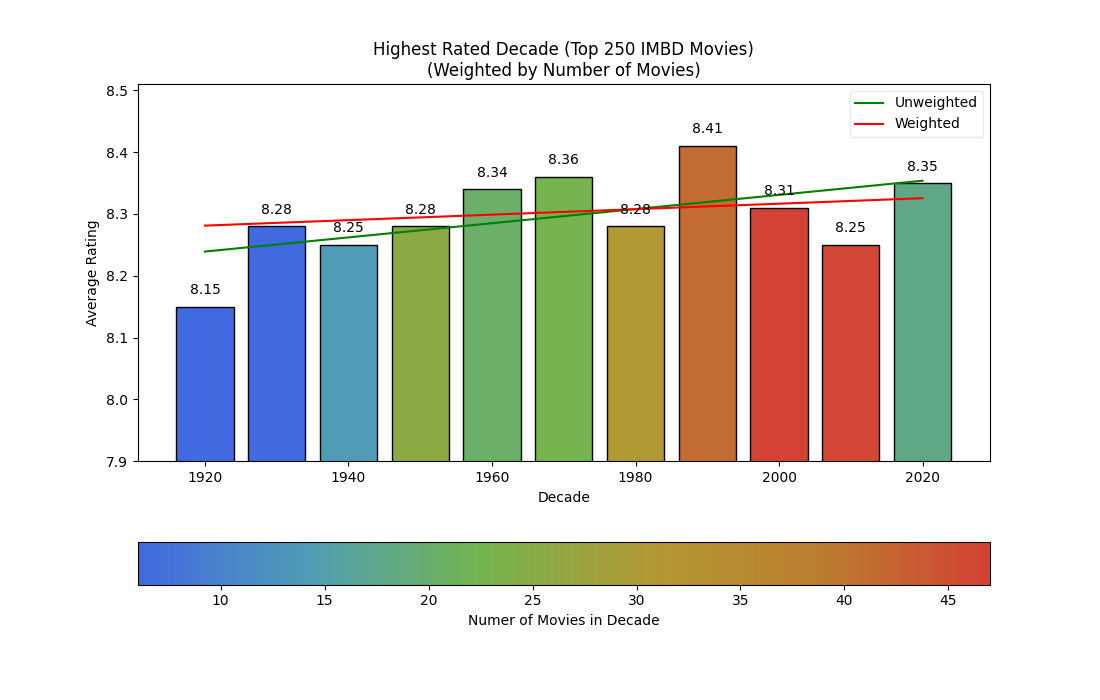
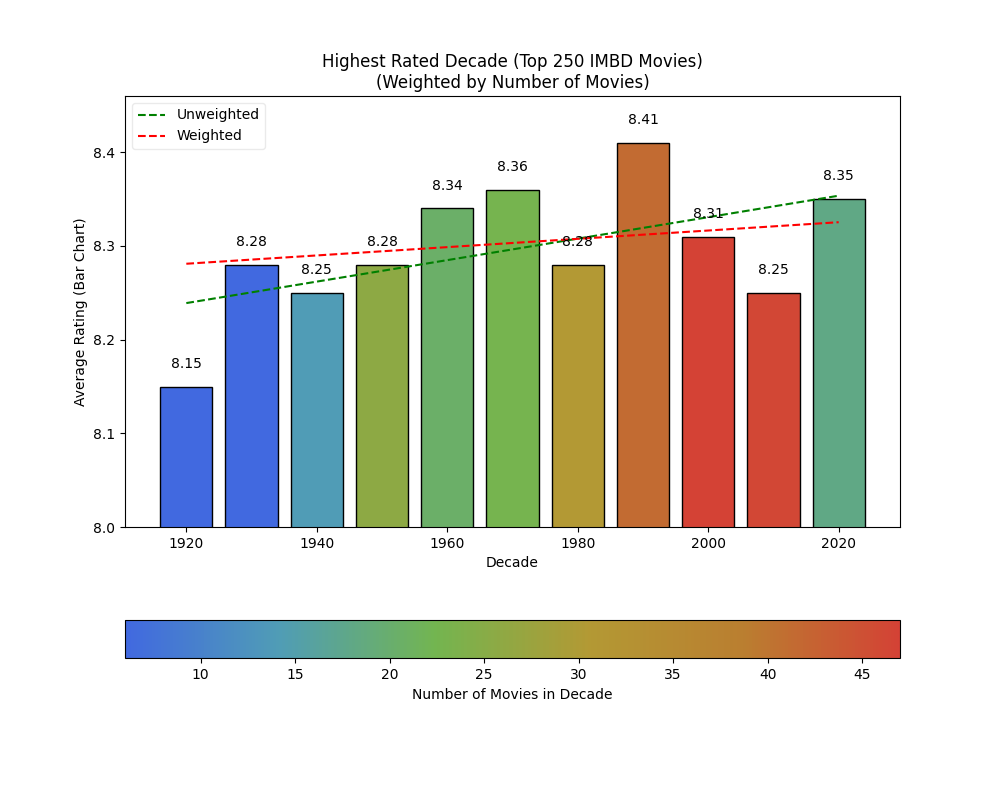
Minor updates to zoom

diff --git a/imdb_top_movies/highest_rated_decades_weighted.py b/imdb_top_movies/highest_rated_decades_weighted.py
@@ -7,28 +7,26 @@ from matplotlib.colors import LinearSegmentedColormap
 import pandas as pd
 import numpy as np
 
-plt.figure(figsize=(11,7))
+plt.figure(figsize=(10,8))
 
 #pd.set_option('display.max_rows',None)         # commented out, pandas does not display full table by default must set option
 #pd.set_option('display.max_columns',None)
 
 imdb_table = pd.read_csv('./imdb_top_movies.csv', index_col = 0)             # DataFrame created from .csv file
-decade_highest_rated = imdb_table.loc[:,['Year','Rating']]                   # Drop columns we don't need (DataFrame type)
+decade = imdb_table.loc[:,['Year','Rating']]                   # Drop columns we don't need (DataFrame type)
                                                                              # DataFrame supports slicing via loc and iloc
-decade_highest_rated['Decade'] = (decade_highest_rated['Year'] // 10) * 10   # Create a decade column | (1992 // 10 = 199.2 rounded down) * 10 = 1990
+decade['Decade'] = (decade['Year'] // 10) * 10   # Create a decade column | (1992 // 10 = 199.2 rounded down) * 10 = 1990
+# Another method to create a column
+#decade['test'] = decade['Year'].map(lambda x: (x // 10) * 10)
+avg_rating_per_decade = decade.groupby('Decade', as_index=False)['Rating'].mean().round(2)  # Find the mean rating per decade, round to two decimals
 
-avg_rating_per_decade = decade_highest_rated.groupby('Decade', as_index=False)[['Rating']].mean().round(2)  # Find the mean rating per decade, round to two decimals
-
-# Goal of chunk - weigh the decades by the number of movies they have
-counts = decade_highest_rated.groupby('Decade',as_index=False)['Rating'].count()         # Find the count of movies  
+# Goal of chunk - weigh the decades by the number of movies they have for a trend line
+counts = decade.groupby('Decade',as_index=False)['Rating'].count()                       # Find the count of movies  
 avg_rating_per_decade['Weight'] = np.sqrt(counts['Rating'])                              # Scale down (EX: 46 movies vs 6 would show downward trend towards higher #)
 avg_rating_per_decade['ColorMap'] = (
     (avg_rating_per_decade['Weight'] - avg_rating_per_decade['Weight'].min()) /          # Normalize our weight for a color map 
     (avg_rating_per_decade['Weight'].max() - avg_rating_per_decade['Weight'].min())      # 1) Min row = 0.00 #2) max row = 1.00, divide #1 by #2
 )   
-
-min_rating = min(avg_rating_per_decade['Rating'])   # Find min rating for the y axis to "zoom in"
-max_rating = max(avg_rating_per_decade['Rating'])   # Find max rating for the y axis to "zoom in"
 
 # Creation of ColorMap - used for bargraph and for colorbar
 custom_colors = ["#4169e0","#509db5","#73b550","#b39934","#ba7e30","#d44235"]
@@ -38,7 +36,7 @@ my_norm = cm.colors.Normalize(vmin=counts['Rating'].min(),vmax=counts['Rating'].
 # Create a colorbar THIS DOES NOT HAVE TO DO WITH COLORS OF BARS
 sm = cm.ScalarMappable(cmap=custom_cmap,norm=my_norm)  # Use above variables for custom colors
 cbar = plt.colorbar(sm,orientation='horizontal')       # Create the colorbar using our custom ScalarMappable object
-cbar.set_label("Numer of Movies in Decade")            # Give colorbar a label
+cbar.set_label("Number of Movies in Decade")           # Give colorbar a label
 
 colors = custom_cmap(avg_rating_per_decade['ColorMap'])# Give bargraph colors based on normalized weight
 bars = plt.bar(avg_rating_per_decade['Decade'],        # Plot bar graph, (decades,ratings) as (x,y)
@@ -48,25 +46,27 @@ bars = plt.bar(avg_rating_per_decade['Decade'],        # Plot bar graph, (decade
                edgecolor='black')                      # Black border around bars
 
 # Visual zooming
-plt.ylim(min_rating - .25, max_rating + .1)  # zoom in based on min and max ratings, without this graph is huge and all look the same height
+min_rating = min(avg_rating_per_decade['Rating'])
+max_rating = max(avg_rating_per_decade['Rating'])
+plt.ylim(min_rating - .15, max_rating + .05)
 
 # Titles and axes labels
 plt.title("Highest Rated Decade (Top 250 IMBD Movies)\n(Weighted by Number of Movies)")
 plt.xlabel("Decade")
-plt.ylabel("Average Rating")
+plt.ylabel("Average Rating (Bar Chart)")
 
 # Creating a weighted trend line based off number of movies
 
 # Coefficient is the numerical value that describes the relationship between variables -1 to 1
-# Y = mx + b, m is the coefficient (slop), b is the y-intercept/constant (tells you Y when X is 0)
+# Y = mx + b, m is the coefficient (slope), b is the y-intercept/constant (tells you Y when X is 0)
 coeff_weighted = np.polyfit(avg_rating_per_decade['Decade'],   # X-Coord
                           avg_rating_per_decade['Rating'],     # Y-Coord
-                          1,                                   # 1 = Linear (answers overall), 2 = Quadratic (overall but slight curvature)
+                          1,                                   # 1 = Linear (answers overall), 2 = Quadratic (overall but slight curvature) # Deg of polynomial
                           w=avg_rating_per_decade['Weight'])   # Add weight to the polynomial, pulls the trendline towards higher weights (1990s - 2010s)
 
 coeff_unweighted = np.polyfit(avg_rating_per_decade['Decade'], # X-Coord
                               avg_rating_per_decade['Rating'], # Y-Coord
-                              1)                               # 1 = Linear (answers overall), 2 = Quadratic (overall but slight curvature)
+                              1)                               # 1 = Linear (answers overall), 2 = Quadratic (overall but slight curvature) # Deg of polynomial
 
 weighted_trend_line = np.poly1d(coeff_weighted)     # Represents equation,TYPE = numpy.poly1d, weighted = 0.0004431 x + 7.43
                                                     # wtl(avg_rating_per_decade['Decade']) 0.0004431 (decade) + 7.43 = x
@@ -82,12 +82,14 @@ unweighted_trend_line = np.poly1d(coeff_unweighted) # 0.001145 x + 6.04
 plt.plot(avg_rating_per_decade['Decade'], 
          unweighted_trend_line(avg_rating_per_decade['Decade']), # Pass in all the decades to the trend line 
          label='Unweighted', 
-         color='green')
+         color='green',
+         linestyle='--')
 
 plt.plot(avg_rating_per_decade['Decade'],
           weighted_trend_line(avg_rating_per_decade['Decade']),  # Pass in all the decades to the trend line
           label='Weighted', 
-          color = 'red')
+          color = 'red',
+          linestyle='--')
 
 for bar in bars:                                 # in order to get text, we need to go through all bar objects (matplotlib.patches.Rectangle)
     plt.text(bar.get_x() + bar.get_width() / 2,  # X-coord of left edge of bar, get_width / 2 gives half width which is distance from left edge to center of bar
@@ -95,5 +97,5 @@ for bar in bars:                                 # in order to get text, we need
              bar.get_height(),                   # What is displayed
              ha='center')                        # Center the text (horizontal alignment)
 
-plt.legend(framealpha = 0.4) # Give opacity to the legend 
-plt.show()                   # Show window
+plt.legend(framealpha = 0.4, loc='upper left') # Give opacity to the legend 
+plt.show()                                     # Show window
